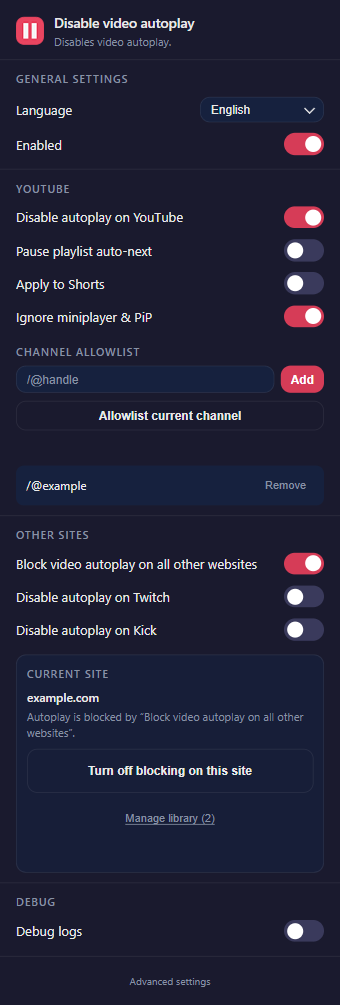
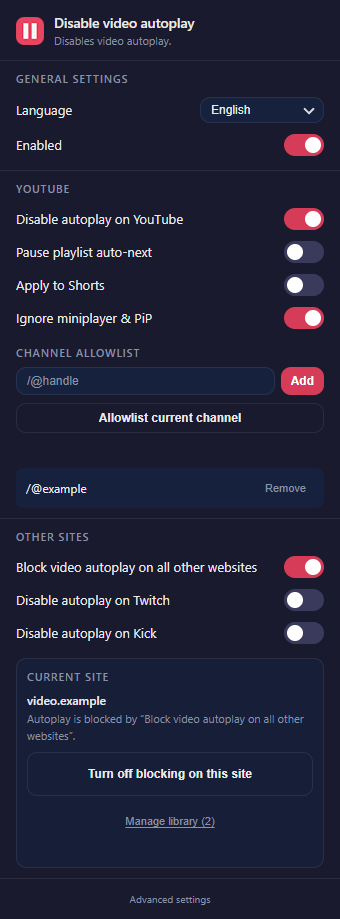
Stabilize popup layout and add store links

diff --git a/ui/popup-strings.js b/ui/popup-strings.js
@@ -6,7 +6,6 @@ const YTAPStrings = {
     generalTitle: "General settings",
     youtubeTitle: "YouTube",
     otherSitesTitle: "Other sites",
-    debugTitle: "Debug",
     languageLabel: "Language",
     languageAuto: "Auto",
     enabledLabel: "Enabled",
@@ -17,7 +16,6 @@ const YTAPStrings = {
     applyToKickLabel: "Disable autoplay on Kick",
     applyToOtherSitesLabel: "Block video autoplay on all other websites",
     ignoreMiniplayerLabel: "Ignore miniplayer & PiP",
-    debugLabel: "Debug logs",
     allowlistTitle: "Channel allowlist",
     allowlistPlaceholder: "/@handle",
     channelInputInvalid: "Enter a YouTube @handle or channel URL.",
@@ -34,7 +32,6 @@ const YTAPStrings = {
     statusAllowlisted: (v) => `Allowlisted: ${v}`,
     currentSiteTitle: "Current site",
     siteLibraryCardTitle: "Website library",
-    currentSiteChecking: "Detecting the active website...",
     currentSiteBlockedGlobally: "Autoplay is blocked by “Block video autoplay on all other websites”.",
     currentSiteBlockedFromLibrary: (site) => `Autoplay is blocked by the library rule: ${site}.`,
     currentSiteAllowed: "Autoplay blocking is off on this site.",
@@ -56,7 +53,6 @@ const YTAPStrings = {
     generalTitle: "Allgemeine Einstellungen",
     youtubeTitle: "YouTube",
     otherSitesTitle: "Andere Websites",
-    debugTitle: "Diagnose",
     languageLabel: "Sprache",
     languageAuto: "Automatisch",
     enabledLabel: "Aktiviert",
@@ -67,7 +63,6 @@ const YTAPStrings = {
     applyToKickLabel: "Autoplay auf Kick blockieren",
     applyToOtherSitesLabel: "Video-Autoplay auf allen anderen Websites blockieren",
     ignoreMiniplayerLabel: "Miniplayer und PiP ausnehmen",
-    debugLabel: "Debug-Protokolle",
     allowlistTitle: "Kanalausnahmen",
     allowlistPlaceholder: "/@handle",
     channelInputInvalid: "Gib einen YouTube-@Handle oder eine Kanal-URL ein.",
@@ -84,7 +79,6 @@ const YTAPStrings = {
     statusAllowlisted: (v) => `Kanalausnahme hinzugefügt: ${v}`,
     currentSiteTitle: "Aktuelle Website",
     siteLibraryCardTitle: "Website-Liste",
-    currentSiteChecking: "Aktive Website wird ermittelt...",
     currentSiteBlockedGlobally: "Autoplay wird durch „Video-Autoplay auf allen anderen Websites blockieren“ blockiert.",
     currentSiteBlockedFromLibrary: (site) => `Autoplay wird durch den Listeneintrag ${site} blockiert.`,
     currentSiteAllowed: "Die Autoplay-Blockierung ist auf dieser Website ausgeschaltet.",
@@ -106,7 +100,6 @@ const YTAPStrings = {
     generalTitle: "Ajustes generales",
     youtubeTitle: "YouTube",
     otherSitesTitle: "Otros sitios",
-    debugTitle: "Diagnóstico",
     languageLabel: "Idioma",
     languageAuto: "Automático",
     enabledLabel: "Activado",
@@ -117,7 +110,6 @@ const YTAPStrings = {
     applyToKickLabel: "Bloquear reproducción automática en Kick",
     applyToOtherSitesLabel: "Bloquear la reproducción automática de vídeo en los demás sitios",
     ignoreMiniplayerLabel: "Omitir minirreproductor y PiP",
-    debugLabel: "Registros de depuración",
     allowlistTitle: "Excepciones de canales",
     allowlistPlaceholder: "/@handle",
     channelInputInvalid: "Introduce un @handle de YouTube o la URL de un canal.",
@@ -134,7 +126,6 @@ const YTAPStrings = {
     statusAllowlisted: (v) => `Canal permitido: ${v}`,
     currentSiteTitle: "Sitio actual",
     siteLibraryCardTitle: "Biblioteca de sitios",
-    currentSiteChecking: "Detectando el sitio activo...",
     currentSiteBlockedGlobally: "La reproducción automática está bloqueada por «Bloquear la reproducción automática de vídeo en los demás sitios».",
     currentSiteBlockedFromLibrary: (site) => `La reproducción automática está bloqueada por la regla de la biblioteca: ${site}.`,
     currentSiteAllowed: "El bloqueo de reproducción automática está desactivado en este sitio.",
@@ -156,7 +147,6 @@ const YTAPStrings = {
     generalTitle: "Загальні налаштування",
     youtubeTitle: "YouTube",
     otherSitesTitle: "Інші сайти",
-    debugTitle: "Діагностика",
     languageLabel: "Мова",
     languageAuto: "Автоматично",
     enabledLabel: "Увімкнено",
@@ -167,7 +157,6 @@ const YTAPStrings = {
     applyToKickLabel: "Блокувати автовідтворення на Kick",
     applyToOtherSitesLabel: "Блокувати автовідтворення відео на всіх інших сайтах",
     ignoreMiniplayerLabel: "Не втручатися в мініпрогравач і PiP",
-    debugLabel: "Журнали налагодження",
     allowlistTitle: "Винятки для каналів",
     allowlistPlaceholder: "/@handle",
     channelInputInvalid: "Введи @handle або посилання на канал YouTube.",
@@ -184,7 +173,6 @@ const YTAPStrings = {
     statusAllowlisted: (v) => `Канал додано до винятків: ${v}`,
     currentSiteTitle: "Поточний сайт",
     siteLibraryCardTitle: "Бібліотека сайтів",
-    currentSiteChecking: "Визначаю активний сайт...",
     currentSiteBlockedGlobally: "Автовідтворення блокується налаштуванням «Блокувати автовідтворення відео на всіх інших сайтах».",
     currentSiteBlockedFromLibrary: (site) => `Автовідтворення блокується правилом бібліотеки: ${site}.`,
     currentSiteAllowed: "На цьому сайті блокування автовідтворення вимкнено.",
@@ -206,7 +194,6 @@ const YTAPStrings = {
     generalTitle: "Общие настройки",
     youtubeTitle: "YouTube",
     otherSitesTitle: "Другие сайты",
-    debugTitle: "Отладка",
     languageLabel: "Язык",
     languageAuto: "Авто",
     enabledLabel: "Включено",
@@ -217,7 +204,6 @@ const YTAPStrings = {
     applyToKickLabel: "Отключать автовоспроизведение на Kick",
     applyToOtherSitesLabel: "Блокировать автовоспроизведение видео на всех остальных сайтах",
     ignoreMiniplayerLabel: "Не трогать миниплеер и PiP",
-    debugLabel: "Debug-логи",
     allowlistTitle: "Исключения по каналам",
     allowlistPlaceholder: "/@handle",
     channelInputInvalid: "Введи @handle или ссылку на канал YouTube.",
@@ -234,7 +220,6 @@ const YTAPStrings = {
     statusAllowlisted: (v) => `Канал добавлен в исключения: ${v}`,
     currentSiteTitle: "Текущий сайт",
     siteLibraryCardTitle: "Библиотека сайтов",
-    currentSiteChecking: "Определяю активный сайт...",
     currentSiteBlockedGlobally: "Автовоспроизведение блокируется настройкой «Блокировать автовоспроизведение видео на всех остальных сайтах».",
     currentSiteBlockedFromLibrary: (site) => `Автовоспроизведение блокируется правилом библиотеки: ${site}.`,
     currentSiteAllowed: "На этом сайте блокировка выключена.",

diff --git a/popup.js b/popup.js
@@ -53,7 +53,6 @@ async function renderSettings(data) {
   $("applyToTwitch").checked = !!data.applyToTwitch;
   $("applyToKick").checked = !!data.applyToKick;
   $("applyToOtherSites").checked = data.applyToOtherSites !== false;
-  $("debug").checked = !!data.debug;
   applyI18n(t);
   renderList(data.allowlist || []);
   applySettingsAvailability(data);
@@ -72,17 +71,15 @@ async function renderCurrentSite(data) {
   const library = normalizeSiteLibrary(data.siteLibrary);
 
   currentSite = "";
-  card.hidden = true;
-  detailsEl.hidden = true;
-  hostEl.textContent = t("currentSiteChecking");
-  modeEl.textContent = "";
-  toggleBtn.hidden = true;
   toggleBtn.disabled = true;
-  manageBtn.textContent = t("manageSiteLibrary", library.length + normalizeSiteLibrary(data.siteExclusions).length);
 
   const tab = await getActiveTab();
   // A later refresh owns the card even if this tab lookup finishes last.
   if (requestId !== currentSiteRequestId) return;
+  // Keep the previous layout until the replacement can be painted together.
+  detailsEl.hidden = true;
+  toggleBtn.hidden = true;
+  manageBtn.textContent = t("manageSiteLibrary", library.length + normalizeSiteLibrary(data.siteExclusions).length);
   const tabUrl = tab?.url || "";
   if (!/^https?:\/\//i.test(tabUrl)) {
     titleEl.textContent = t("siteLibraryCardTitle");
@@ -165,7 +162,6 @@ async function saveFlags(event) {
   // Capture currentTarget before awaiting: DOM events clear it after dispatch.
   const id = event.currentTarget.id;
   const payload = { [id]: event.currentTarget.checked };
-  if (id === "debug") popupDebugEnabled = payload.debug;
   logPopup("saveFlags", payload);
   await settingsView.save(id, payload[id]);
 }
@@ -260,7 +256,6 @@ $("applyToTwitch").addEventListener("change", safeAction(saveFlags));
 $("applyToKick").addEventListener("change", safeAction(saveFlags));
 $("applyToOtherSites").addEventListener("change", safeAction(saveFlags));
 $("ignoreMiniplayer").addEventListener("change", safeAction(saveFlags));
-$("debug").addEventListener("change", safeAction(saveFlags));
 $("addBtn").addEventListener("click", safeAction(addItem));
 $("newItem").addEventListener("input", () => {
   $("newItem").setAttribute("aria-invalid", "false");

diff --git a/popup.html b/popup.html
@@ -291,7 +291,7 @@
 
     .current-site-card {
       margin-top: 10px;
-      padding: 10px;
+      padding: 10px 10px 6px;
       border: 1px solid var(--border);
       border-radius: var(--radius);
       background: rgba(22,33,62,0.65);
@@ -313,6 +313,9 @@
     }
     .current-site-card .btn-secondary {
       min-height: 44px;
+    }
+    .current-site-card .status {
+      margin-top: 2px;
     }
     .btn-link {
       width: 100%;
@@ -403,21 +406,29 @@
     }
 
     .footer {
-      padding: 8px 16px;
-      text-align: center;
+      display: flex;
+      padding: 4px 16px;
       font-size: 10px;
       color: var(--text-dim);
     }
     .footer-link {
-      display: inline-flex;
+      display: flex;
+      width: 100%;
       min-height: 32px;
       align-items: center;
+      justify-content: center;
       border: 0;
+      border-radius: 6px;
       background: transparent;
       color: var(--text-dim);
       cursor: pointer;
       font: inherit;
       text-decoration: none;
+      transition: background 0.15s, color 0.15s;
+    }
+    .footer-link:hover {
+      background: var(--surface);
+      color: var(--text);
     }
 
     @media (prefers-reduced-motion: reduce) {
@@ -550,21 +561,8 @@
     </div>
   </div>
 
-  <div class="section">
-    <div class="section-title" data-i18n="debugTitle">Debug</div>
-    <div class="toggle-row">
-      <label class="toggle-label" for="debug" data-i18n="debugLabel">Debug logs</label>
-      <label class="switch">
-        <input type="checkbox" id="debug" data-i18n-aria-label="debugLabel" />
-        <span class="slider"></span>
-      </label>
-    </div>
-  </div>
-
   <div class="footer">
-    <div>
-      <button class="footer-link" id="openOptions" type="button" data-i18n="advancedLink">Advanced settings</button>
-    </div>
+    <button class="footer-link" id="openOptions" type="button" data-i18n="advancedLink">Advanced settings</button>
   </div>
 
   <script src="vendor/domain-parser.js"></script>

diff --git a/TESTING.md b/TESTING.md
@@ -19,7 +19,7 @@ Core tests run without a browser or DOM. They cover scope decisions, exact gestu
 1. Open `chrome://extensions`.
 2. Reload the unpacked extension.
 3. Reload every website tab used for testing. An already open tab otherwise keeps the previous content scripts.
-4. Enable **Debug logs** for the test run.
+4. Open advanced settings and enable **Debug logs** for the test run.
 5. In debug output, confirm that the plain-text version after `[YT-AP ISOLATED]` matches the extension card.
 
 ## YouTube
@@ -112,7 +112,7 @@ Core tests run without a browser or DOM. They cover scope decisions, exact gestu
    - Restart the background worker with the master switch off. Its toolbar icon must return to the disabled appearance without another toggle.
 8. Geometry not measured for that platform must show `overVideoRect=unknown`, not `false`. Recovery scheduling and execution must retain `mediaId` and `pointerSeq` in plain text, and the input summary must retain `playLike`/`nonPlayLike` without exposing labels.
 9. Replace a temporary status message before it expires: the previous timer must not clear the new message or another status area. Popup messages last 3500 ms and options messages last 4000 ms. Free-form channel input must stay redacted in popup logs even without a recognized channel-path prefix.
-10. Click the text label of each switch. With the master off, dependent controls must be disabled and dimmed without losing their values. Language and debug controls remain available. Keep two settings windows open: flag, list, and language changes must appear without reopening either window or clearing drafts.
+10. Click the text label of each switch. With the master off, dependent controls must be disabled and dimmed without losing their values. Language controls, advanced settings, and the debug control in advanced settings remain available. Keep two settings windows open: flag, list, and language changes must appear without reopening either window or clearing drafts. While a popup flag is being saved, the current-site card must stay visible and the scroll position must not jump because the card was temporarily removed.
 11. Reject malformed domains, bare public suffixes (`com`, `co.uk`), and private suffixes (`github.io`); accept valid domains, IDNs, IP addresses, and localhost. Reject overlong channel handles without stretching the popup. Resolve a legacy channel URL, then retry with the network unavailable: show a translated error and keep the input. Read an unavailable current channel: show a useful recovery instruction, not the raw browser error.
 12. With Debug off, `ytap-config` must not contain `extensionVersion`. Ordinary gestures must not emit `ytap-gesture`; a trusted primary YouTube watch-link activation must still provide target-specific navigation intent.
 

diff --git a/PRIVACY.md b/PRIVACY.md
@@ -1,6 +1,6 @@
 # Privacy Policy (Disable video autoplay)
 
-Last updated: 2026-11-13
+Last updated: 2026-11-16
 
 ## Summary
 
@@ -56,7 +56,7 @@ YouTube receives the requested channel address and standard network information,
 
 ## Diagnostics and retention
 
-Debug logs are optional and stay in the local browser console. Before writing diagnostic values, the extension redacts page URLs, page-provided media and playlist identifiers, channel entries, and saved website rules. The user can enable or disable these logs in the popup or options page.
+Debug logs are optional and stay in the local browser console. Before writing diagnostic values, the extension redacts page URLs, page-provided media and playlist identifiers, channel entries, and saved website rules. The user can enable or disable these logs in advanced settings.
 
 Playback state is held temporarily for the current page and media lifecycle, not saved as browsing history. Preferences remain in Chrome storage until changed or removed. Website and channel rules can be deleted in the extension settings. Chrome controls the retention and deletion of synchronized settings; browser controls also determine how long console logs remain available.
 

diff --git a/README.md b/README.md
@@ -2,6 +2,8 @@
 
 A Chrome extension that blocks video autoplay on YouTube, Twitch, Kick, and other websites.
 
+[Available in the Chrome Web Store](https://chromewebstore.google.com/detail/disable-video-autoplay/bnjbdafhecleblodpjljinjadieolgja)
+
 ![Stop video autoplay and keep control of playback](docs/illustrations/hero.png)
 
 ## Features
